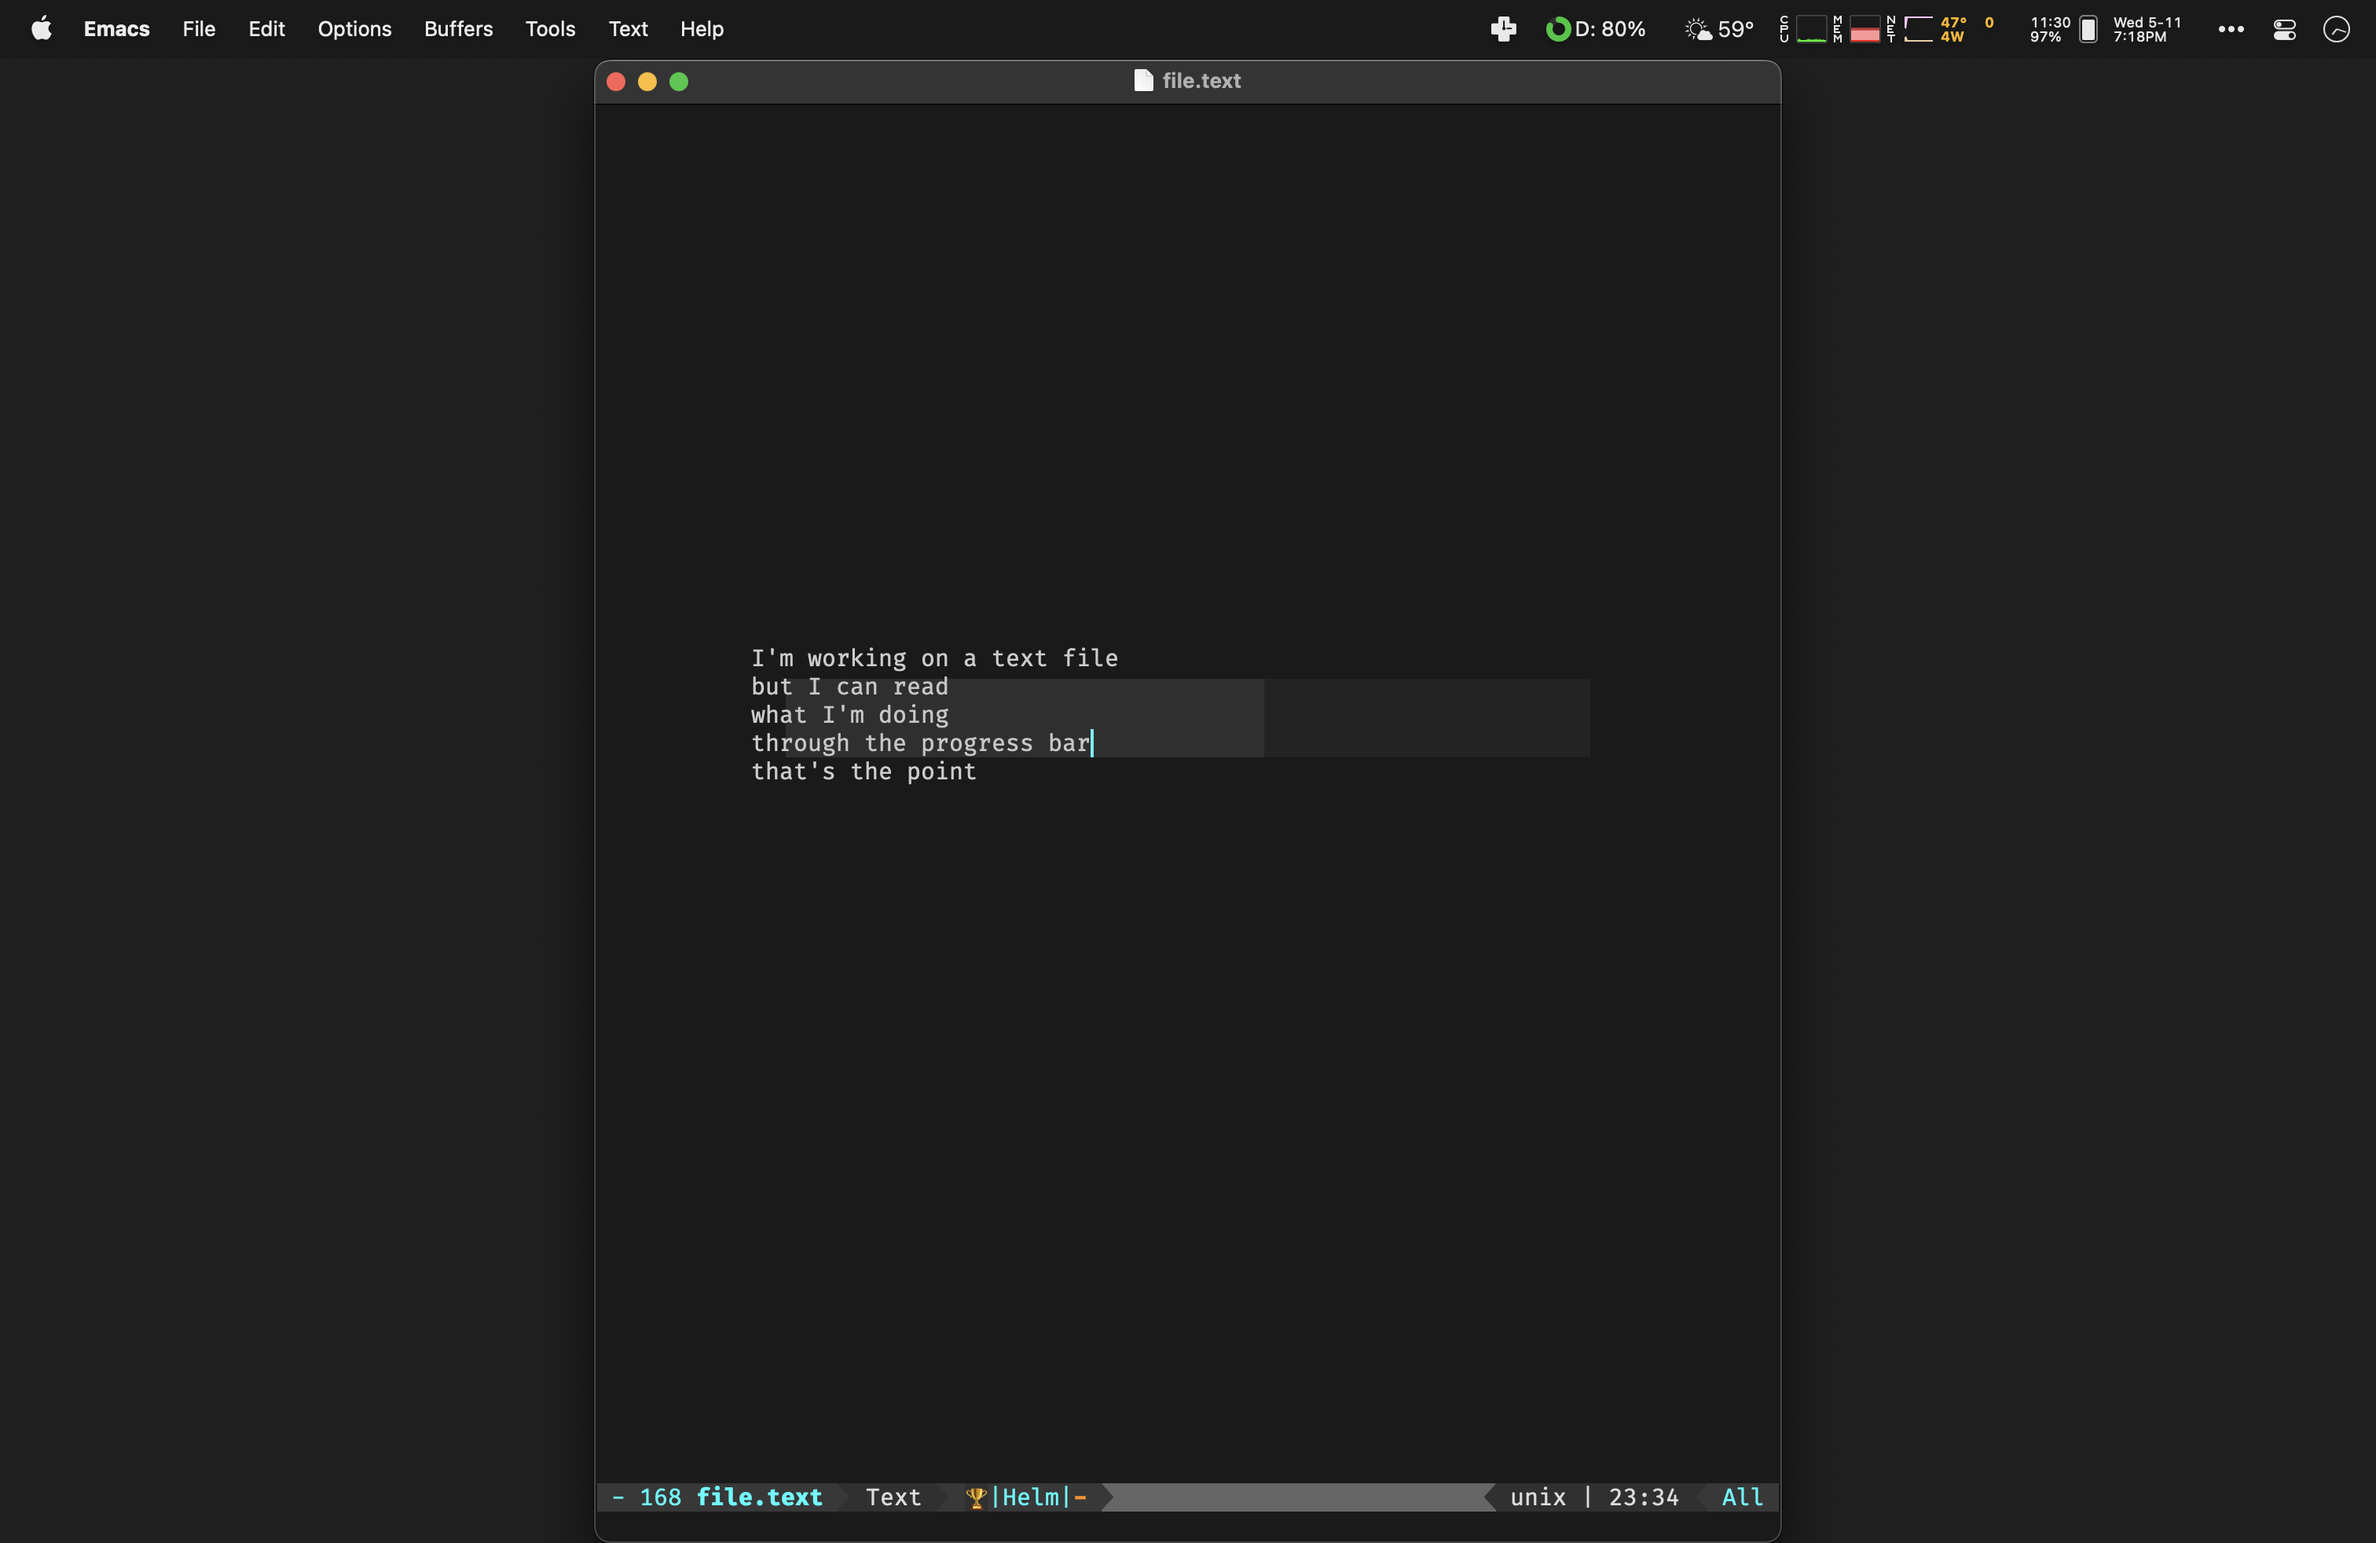
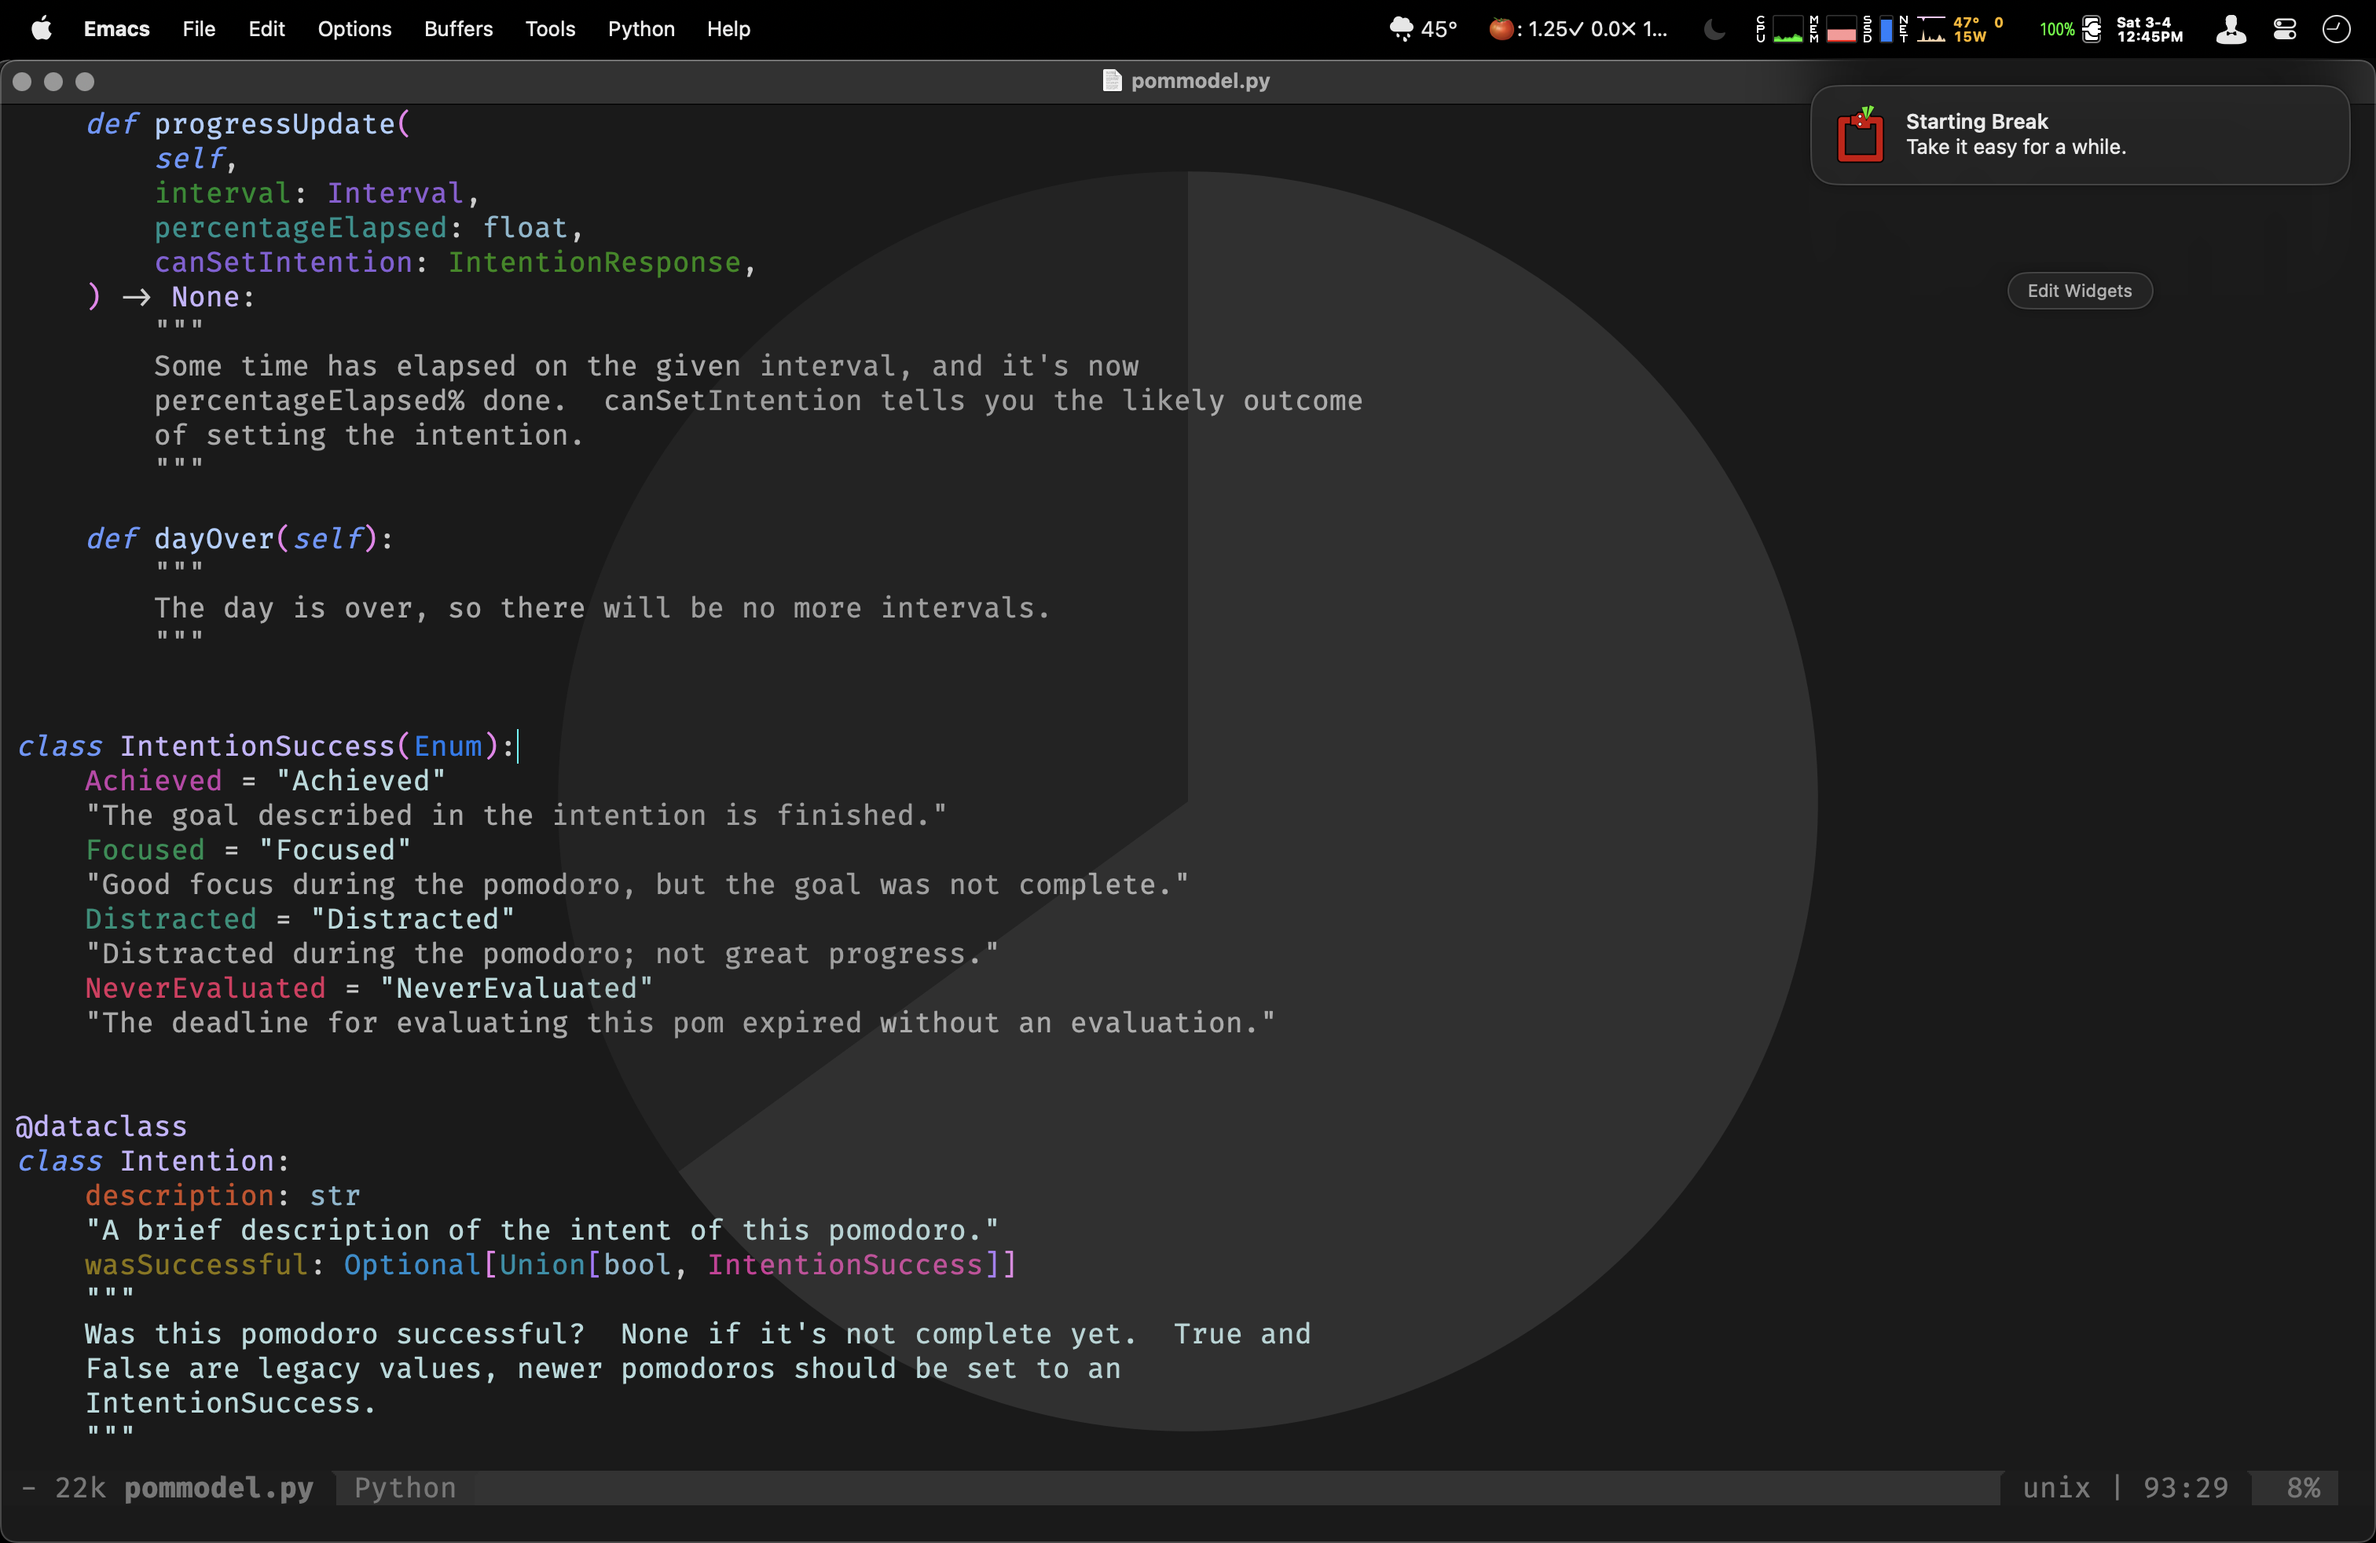
README

diff --git a/README.md b/README.md
@@ -18,9 +18,9 @@ Pomodouroboros’s goal is to:
 
 The way it accomplishes this is to have a pre-existing schedule, where the
 pomodoros are always running, whether you’ve said what you’re going to do with
-them or not.  There’s a progress bar in the middle of your screen showing the
-progress of the current one on your main display, in different colors depending
-on whether you haven’t set an intention yet:
+them or not.  There’s a large, transparent progress pie-chart in the middle of
+your screen showing the progress of the current one on all displays, in
+different colors depending on whether you haven’t set an intention yet:
 
 ![](./screenshots/intention-not-set.png)
 
@@ -31,6 +31,10 @@ If you *have* set one for the current block:
 Or if you’re taking a break:
 
 ![](./screenshots/break.png)
+
+If you successfully set an intention, you can evaluate the pomodoro afterwards:
+
+![](./screenshots/evaluation-prompt.png)
 
 You can also list the pomodoros in the current day (shown here in “test” mode,
 which lets you experiment with a very short “day” that progresses rapidly while
